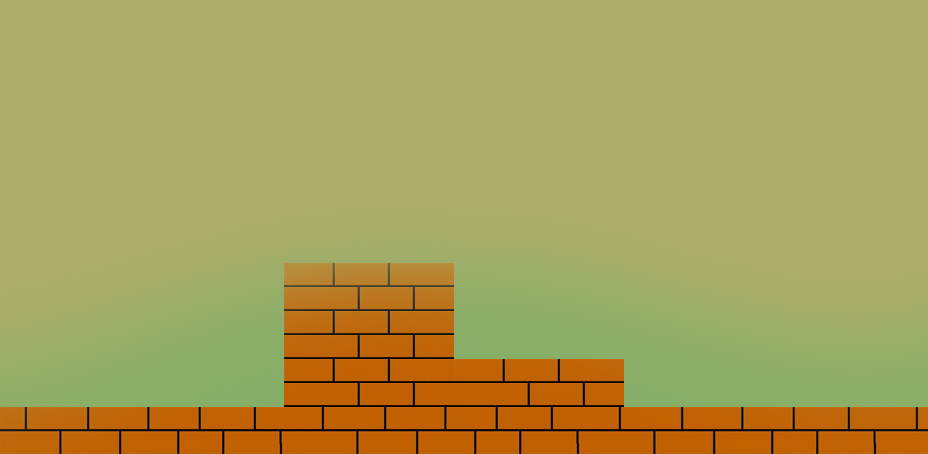
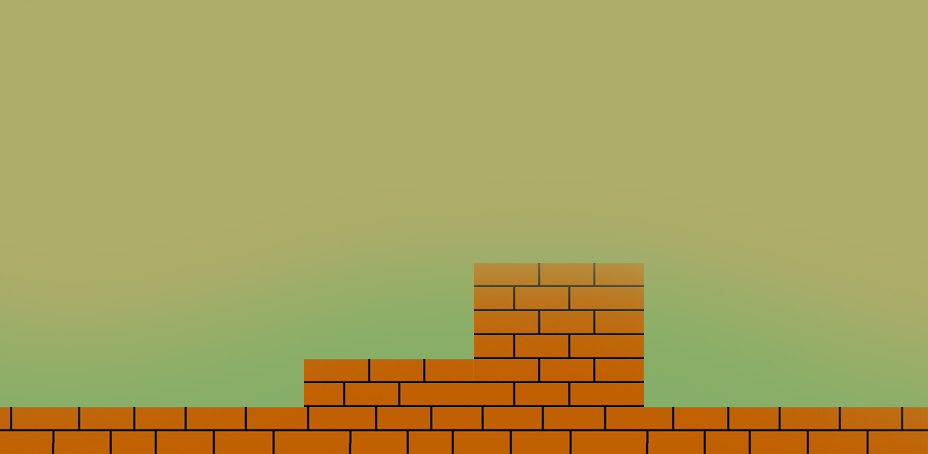
juiste loop richting

diff --git a/Teun/static/css/style.css b/Teun/static/css/style.css
@@ -3,4 +3,4 @@
  Style.css
  Copyright 2015 
 
-*/body{height:7400px;margin:0px}#container{background:#5790d7}#startParallax{background:#5790d7;height:100%;width:100%;position:absolute}#startParallax #btnScroll{border-radius:50%;width:50px;height:50px;background:#ff1e1e;text-align:center;left:calc(50% - 50px / 2);top:450px;position:relative;z-index:1001}#startParallax #btnScroll .perc{border-radius:50%;width:50px;height:19px;background:#ff1e1e;padding:15px 0;font-family:wellbutrinregular;font-size:12px;color:#e7e0e0;z-index:3}#skyFall{height:2330px;bottom:100%;position:static;background:#5791d7;background:-moz-linear-gradient(top, #5791d7 50%, #aac2e0 100%);background:-webkit-gradient(left top, left bottom, color-stop(50%, #5791d7), color-stop(100%, #aac2e0));background:-webkit-linear-gradient(top, #5791d7 50%, #aac2e0 100%);background:-o-linear-gradient(top, #5791d7 50%, #aac2e0 100%);background:-ms-linear-gradient(top, #5791d7 50%, #aac2e0 100%);background:linear-gradient(to bottom, #5791d7 50%, #aac2e0 100%);filter:progid:DXImageTransform.Microsoft.gradient( startColorstr='#5791d7', endColorstr='#aac2e0', GradientType=0 )}#backgroundStartScene{width:928px;height:454px;left:0;top:0;background-color:#000000;z-index:3;position:absolute;display:block;background:url(../img/backgroundStart.jpg) no-repeat}#backgroundScene1{width:928px;height:454px;left:-928px;top:0;background-color:#000000;z-index:3;position:absolute;display:block;background:url(../img/backgroundScene1.jpg) no-repeat}#backgroundScene2_1,#backgroundScene2_2{width:928px;height:454px;left:-928px;top:0;z-index:4;position:absolute;display:block}#backgroundScene2_1{background:url(../img/backgroundScene2_1.jpg) no-repeat}#backgroundScene2_2{background:url(../img/backgroundScene2_2.jpg) no-repeat}#computerScreenInside{height:454px;top:2467px;width:928px;left:calc(50% - 464px);position:absolute;z-index:25;overflow:hidden}#computerScreen{background:url("../img/computerscreen.png") no-repeat;height:632px;top:2420px;width:1024px;left:calc(50% - 512px);position:absolute;z-index:35}#music_btn{width:47px;height:37px;right:20px;top:15px;position:fixed;background:url("../img/music_btn.png") no-repeat 0 0;z-index:10000}#clouds{top:0;width:100%;height:auto}.cloud_small,.cloud_medium,.cloud_large{position:absolute;height:auto}@font-face{font-family:'wellbutrinregular';src:url("../font/Welbut__-webfont.eot");src:url("../font/Welbut__-webfont.eot?#iefix") format("embedded-opentype"),url("../font/Welbut__-webfont.woff2") format("woff2"),url("../font/Welbut__-webfont.woff") format("woff"),url("../font/Welbut__-webfont.ttf") format("truetype"),url("../font/Welbut__-webfont.svg#wellbutrinregular") format("svg");font-weight:normal;font-style:normal}#charByte{width:75px;height:100px;position:relative;top:200px;background:#f00111;left:calc(50% - 75px / 2);z-index:30}#questionOne{background-color:yellow;width:185px;height:75px;z-index:31;opacity:0;left:360px;top:540px;position:relative;display:block;position:fixed;border-radius:30%}p.textCharByte{font-size:10pt;padding:0 5px;text-align:center;opacity:0}#chooseOptions{opacity:0}#optionOne,#optionTwo{width:30px;height:30px;z-index:300;left:580px;position:relative;display:block;position:fixed;border:none}#optionOne{background-color:green;top:540px}#optionTwo{background-color:pink;top:600px}
+*/body{height:5678px;margin:0px}#container{background:#5790d7}#startParallax{background:#5790d7;height:100%;width:100%;position:absolute}#startParallax #btnScroll{border-radius:50%;width:50px;height:50px;background:#ff1e1e;text-align:center;left:calc(50% - 50px / 2);top:450px;position:relative;z-index:1001}#startParallax #btnScroll .perc{border-radius:50%;width:50px;height:19px;background:#ff1e1e;padding:15px 0;font-family:wellbutrinregular;font-size:12px;color:#e7e0e0;z-index:3}#skyFall{height:2330px;bottom:100%;position:static;background:#5791d7;background:-moz-linear-gradient(top, #5791d7 50%, #aac2e0 100%);background:-webkit-gradient(left top, left bottom, color-stop(50%, #5791d7), color-stop(100%, #aac2e0));background:-webkit-linear-gradient(top, #5791d7 50%, #aac2e0 100%);background:-o-linear-gradient(top, #5791d7 50%, #aac2e0 100%);background:-ms-linear-gradient(top, #5791d7 50%, #aac2e0 100%);background:linear-gradient(to bottom, #5791d7 50%, #aac2e0 100%);filter:progid:DXImageTransform.Microsoft.gradient( startColorstr='#5791d7', endColorstr='#aac2e0', GradientType=0 )}#backgroundStartScene{width:928px;height:454px;top:0;background-color:#000000;z-index:3;position:absolute;display:block;background:url(../img/backgroundStart.jpg) no-repeat}#backgroundScene1{width:928px;height:454px;right:-928px;top:0;background-color:#000000;z-index:3;position:absolute;display:block;background:url(../img/backgroundScene1.jpg) no-repeat}#backgroundScene2_1,#backgroundScene2_2{width:928px;height:454px;right:928px;top:0;z-index:4;position:absolute;display:block}#backgroundScene2_1{background:url(../img/backgroundScene2_1.jpg) no-repeat}#backgroundScene2_2{background:url(../img/backgroundScene2_2.jpg) no-repeat}#computerScreenInside{height:454px;top:2467px;width:928px;left:calc(50% - 464px);position:absolute;z-index:25;overflow:hidden}#computerScreen{background:url("../img/computerscreen.png") no-repeat;height:632px;top:2420px;width:1024px;left:calc(50% - 512px);position:absolute;z-index:35}#music_btn{width:47px;height:37px;right:20px;top:15px;position:fixed;background:url("../img/music_btn.png") no-repeat 0 0;z-index:10000}#clouds{top:0;width:100%;height:auto}.cloud_small,.cloud_medium,.cloud_large{position:absolute;height:auto}@font-face{font-family:'wellbutrinregular';src:url("../font/Welbut__-webfont.eot");src:url("../font/Welbut__-webfont.eot?#iefix") format("embedded-opentype"),url("../font/Welbut__-webfont.woff2") format("woff2"),url("../font/Welbut__-webfont.woff") format("woff"),url("../font/Welbut__-webfont.ttf") format("truetype"),url("../font/Welbut__-webfont.svg#wellbutrinregular") format("svg");font-weight:normal;font-style:normal}#charByte{width:75px;height:100px;position:relative;top:200px;background:#f00111;left:calc(50% - 75px / 2);z-index:30}#questionOne{background-color:yellow;width:185px;height:75px;z-index:31;opacity:0;left:360px;top:540px;position:relative;display:block;position:fixed;border-radius:30%}p.textCharByte{font-size:10pt;padding:0 5px;text-align:center;opacity:0}#chooseOptions{opacity:0}#optionOne,#optionTwo{width:30px;height:30px;z-index:300;left:580px;position:relative;display:block;position:fixed;border:none}#optionOne{background-color:green;top:540px}#optionTwo{background-color:pink;top:600px}

diff --git a/Teun/static/js/component.parallax.js b/Teun/static/js/component.parallax.js
@@ -166,8 +166,8 @@ $( function() {
 
         // charByte
         var fallChar    = mapPar(scrollPos, 0,2400, 200,2800);
-        // var moveLeftChar = mapPar(scrollPos, 2400,2800, 0,400);
-        // var scaleCharHeight = mapPar(scrollPos, 2400,2800, 200,100);
+        var moveRightChar = mapPar(scrollPos, 2400,2800, 0,400);
+        // var scaleCharHeight = mapPar(scrollPos, 2400,2800, 100,100);
         
         // StartScene
         var moveStartSceneOut = mapPar(scrollPos, 3000,4000, 0,928);
@@ -187,19 +187,19 @@ $( function() {
         $("#charByte").css({top: fallChar});
 
         $("#backgroundStartScene").css({
-            left: moveStartSceneOut
+            right: moveStartSceneOut
         });
         
         $("#backgroundScene1").css({
-            left: moveSceneOne
+            right: moveSceneOne
         });
 
         $("#backgroundScene1").css({
-            left: moveSceneOneOut
+            right: moveSceneOneOut
         });
 
         $("#backgroundScene2_1").css({
-            left: moveSceneTwo
+            right: moveSceneTwo
           }); 
 
         // $("#backgroundScene2_2").css({
@@ -228,8 +228,9 @@ $( function() {
                 "position": "fixed"
             });
             $("#charByte").css({
-                top: scrollPos + 400,
-                // "margin-left": -moveLeftChar,
+                top: 400,
+                "position": "fixed",
+                "margin-left": -moveRightChar,
                 // width: scaleCharHeight/4*3,
                 // height: scaleCharHeight
                 width: 75,
@@ -254,6 +255,12 @@ $( function() {
                 "margin-left": 0
             });
         }
+
+        if (scrollPos >= 4300) {
+            $("body").css({
+                height: 7678 //+678 = scrollPos 7000
+            })
+        };
 
         
 

diff --git a/Teun/static/scss/components/_layout.scss b/Teun/static/scss/components/_layout.scss
@@ -2,7 +2,7 @@
 // Layout.scss
 // --------------------------------------------------
 body{
-  height: 7400px;
+  height: 5678px; //+678 scrollpos = 5000
   margin: 0px;
 }
 
@@ -62,7 +62,6 @@ body{
 #backgroundStartScene {
   width: 928px;
   height: 454px;
-  left: 0;
   top: 0;
   background-color: #000000;
   z-index: 3;
@@ -74,7 +73,7 @@ body{
 #backgroundScene1 {
   width: 928px;
   height: 454px;
-  left: -928px;
+  right: -928px;
   top: 0;
   background-color: #000000;
   z-index: 3;
@@ -86,7 +85,7 @@ body{
 #backgroundScene2_1, #backgroundScene2_2 {
   width: 928px;
   height: 454px;
-  left: -928px;
+  right: 928px;
   top: 0;
   z-index: 4;
   position: absolute;
